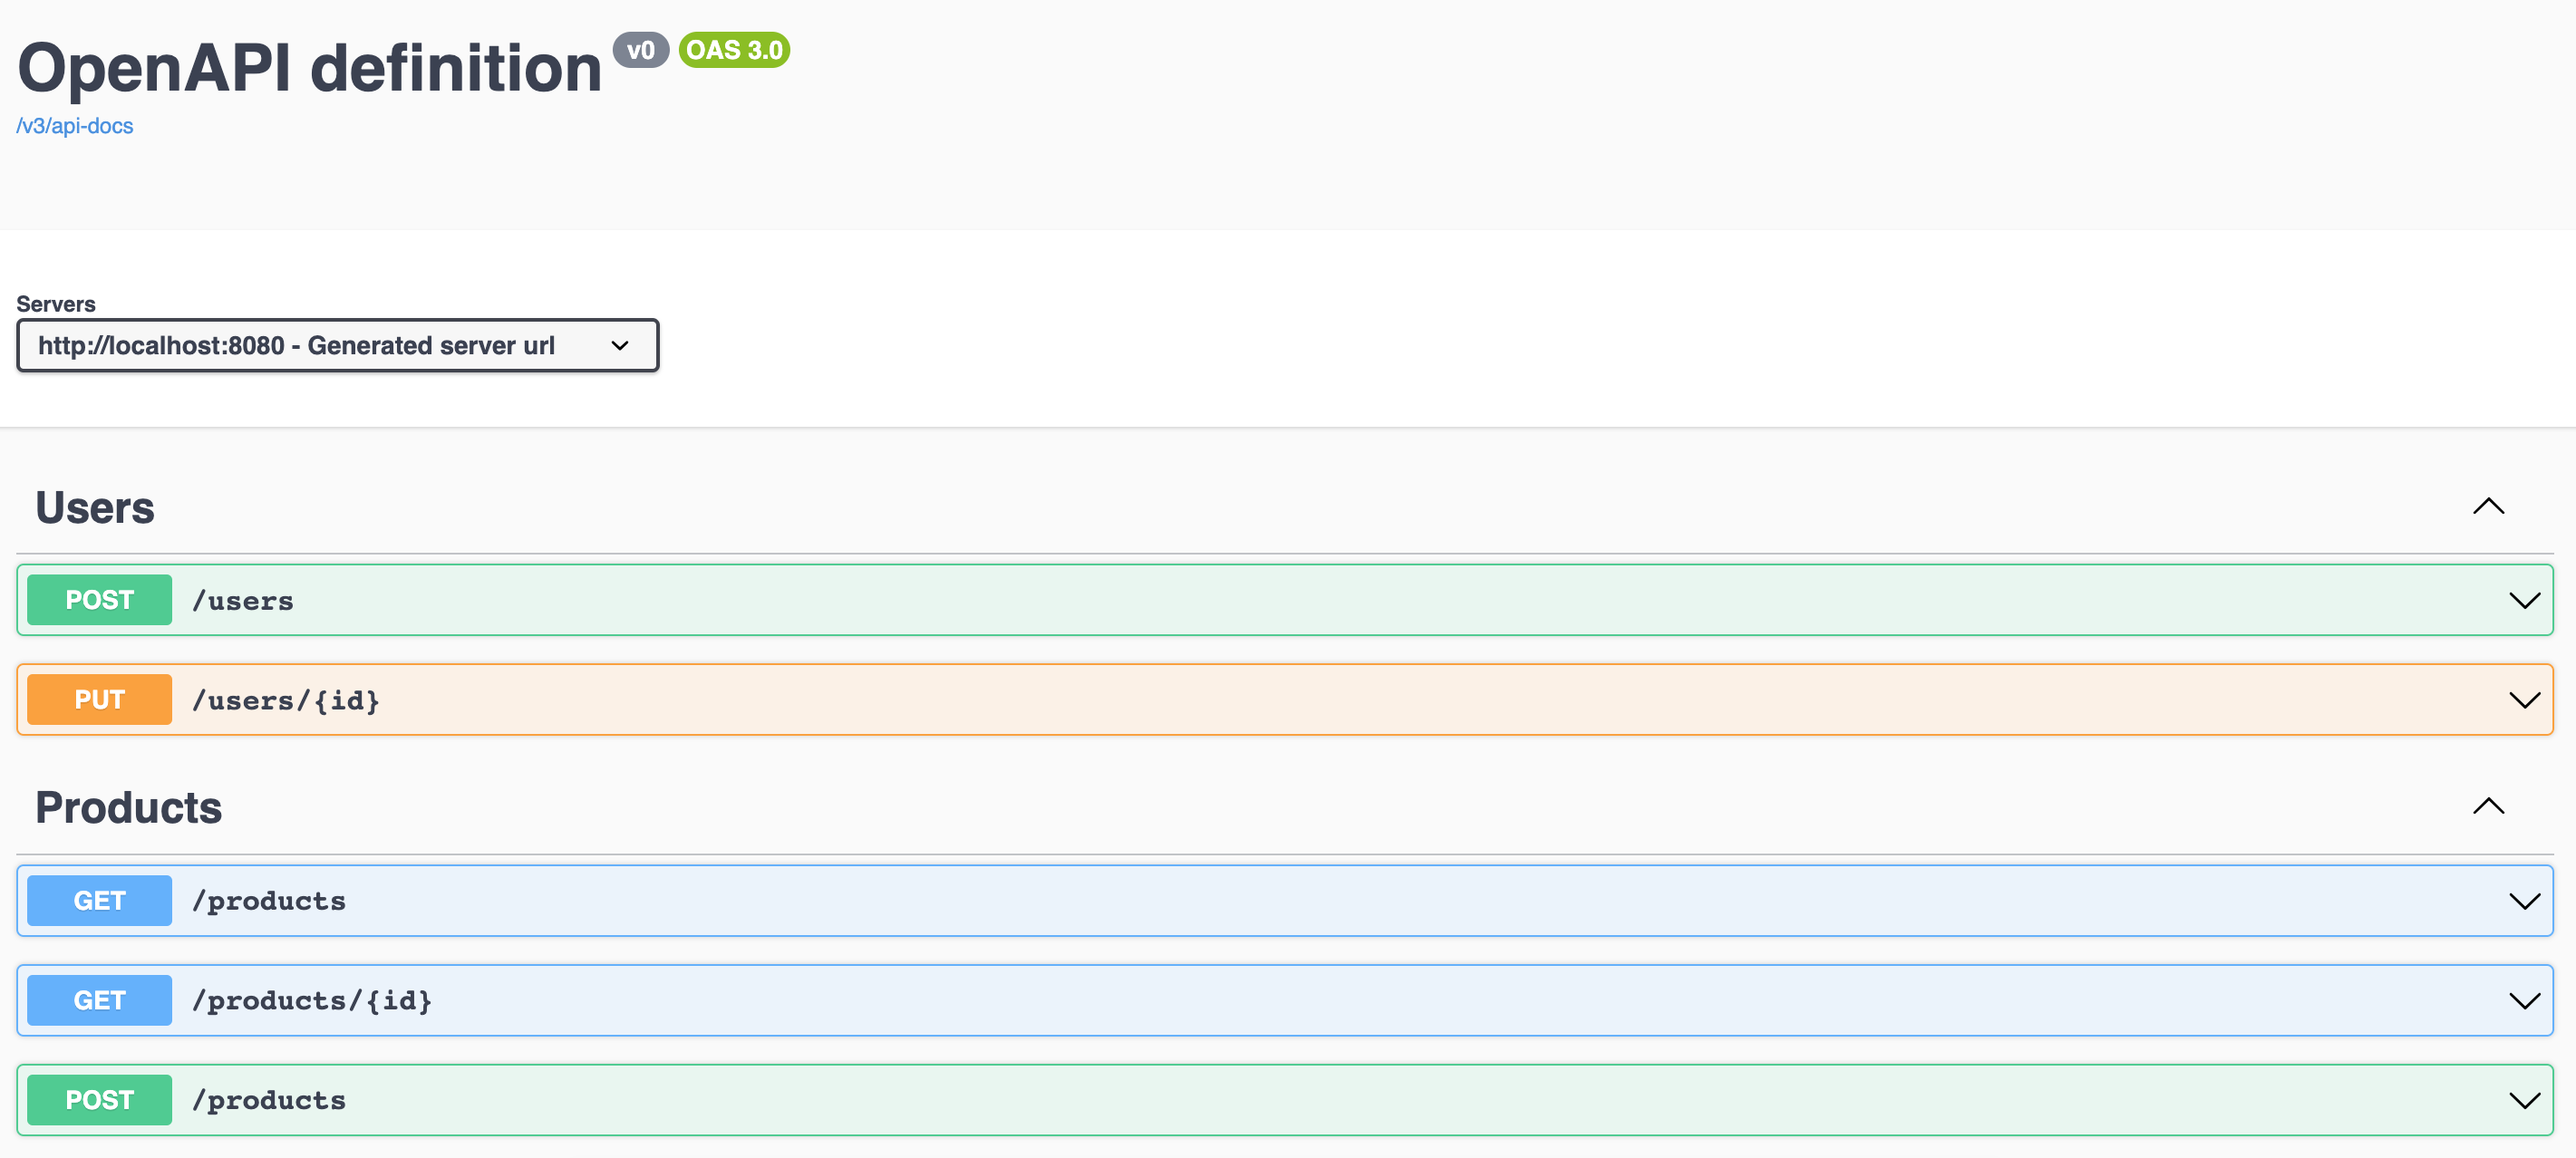
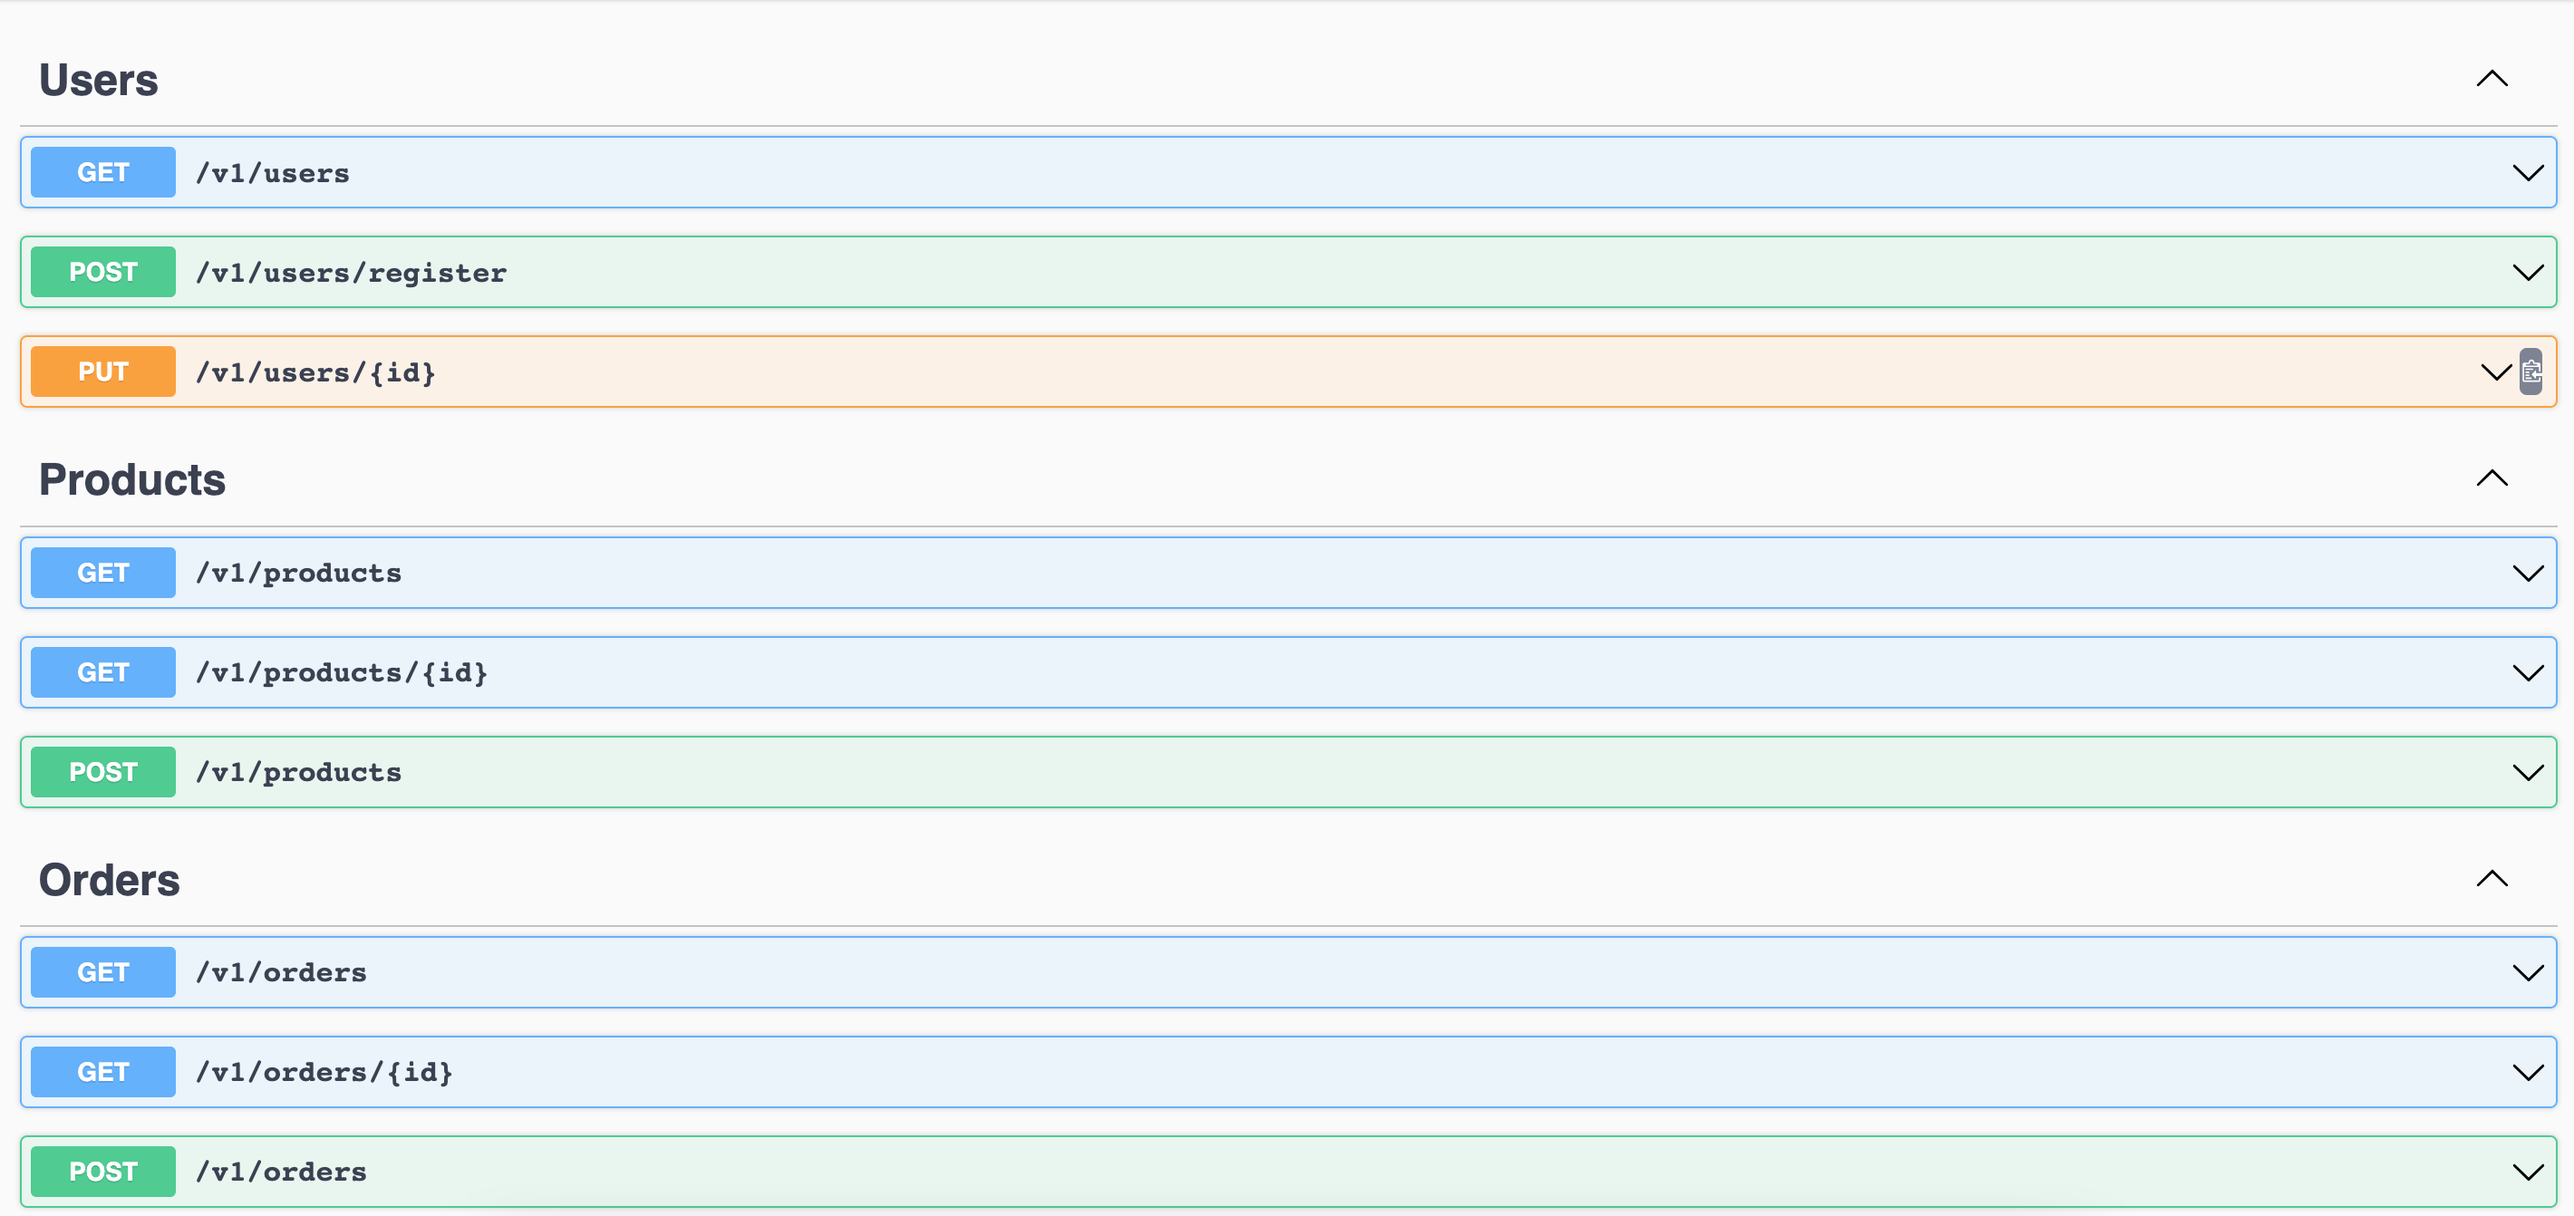
orders: get orders by user api

diff --git a/src/main/java/my/playground/order/OrderService.java b/src/main/java/my/playground/order/OrderService.java
@@ -11,6 +11,9 @@ import my.playground.persistence.entity.OrderEntity;
 import my.playground.persistence.entity.OrdersProductsEntity;
 import my.playground.product.Product;
 import my.playground.product.ProductService;
+import org.springframework.data.domain.PageRequest;
+import org.springframework.data.domain.Sort;
+import org.springframework.data.domain.Sort.Direction;
 import org.springframework.http.HttpStatus;
 import org.springframework.stereotype.Service;
 import org.springframework.transaction.annotation.Transactional;
@@ -71,12 +74,30 @@ public class OrderService {
   }
 
   public Optional<Order> getOrderById(Long orderId) {
+    return orderRepository.findById(orderId).map(
+        oe -> new Order(oe.getId(), getProductsByOrderId(orderId), oe.getTotalAmount(),
+            oe.getShippingAddressId(),
+            oe.getDatePlaced()));
+  }
+
+  public List<Order> getOrdersByUser(Long userId, int pageNumber, int pageSize) {
+    return orderRepository.findAllByBuyerId(userId,
+            PageRequest.of(pageNumber, pageSize, Sort.by(Direction.DESC, "datePlaced"))).stream()
+        .map(orderEntity -> {
+          List<Product> products = getProductsByOrderId(orderEntity.getId());
+          return new Order(
+              orderEntity.getId(),
+              products,
+              orderEntity.getTotalAmount(),
+              orderEntity.getShippingAddressId(),
+              orderEntity.getDatePlaced()
+          );
+        }).toList();
+  }
+
+  private List<Product> getProductsByOrderId(Long orderId) {
     List<Long> productIds = ordersProductsRepository.findAllByOrderId(orderId).stream()
         .map(OrdersProductsEntity::getProductId).toList();
-    List<Product> products = productService.getProducts(productIds);
-
-    return orderRepository.findById(orderId).map(
-        oe -> new Order(oe.getId(), products, oe.getTotalAmount(), oe.getShippingAddressId(),
-            oe.getDatePlaced()));
+    return productService.getProducts(productIds);
   }
 }

diff --git a/src/main/java/my/playground/order/OrderController.java b/src/main/java/my/playground/order/OrderController.java
@@ -2,11 +2,18 @@ package my.playground.order;
 
 import io.swagger.v3.oas.annotations.tags.Tag;
 import jakarta.validation.Valid;
+import java.util.List;
 import lombok.RequiredArgsConstructor;
 import my.playground.infrastructure.exception.AppException;
 import org.springframework.http.HttpStatus;
 import org.springframework.http.ResponseEntity;
-import org.springframework.web.bind.annotation.*;
+import org.springframework.web.bind.annotation.GetMapping;
+import org.springframework.web.bind.annotation.PathVariable;
+import org.springframework.web.bind.annotation.PostMapping;
+import org.springframework.web.bind.annotation.RequestBody;
+import org.springframework.web.bind.annotation.RequestMapping;
+import org.springframework.web.bind.annotation.RequestParam;
+import org.springframework.web.bind.annotation.RestController;
 
 @Tag(name = "Orders")
 @RestController
@@ -24,8 +31,17 @@ public class OrderController {
 
   @GetMapping("/{id}")
   public ResponseEntity<Order> getOrderById(@PathVariable Long id) {
-    Order order = orderService.getOrderById(id).orElseThrow(() -> AppException.from(HttpStatus.NOT_FOUND, "Order not found: " + id));
+    Order order = orderService.getOrderById(id)
+        .orElseThrow(() -> AppException.from(HttpStatus.NOT_FOUND, "Order not found: " + id));
     return new ResponseEntity<>(order, HttpStatus.OK);
+  }
+
+  @GetMapping("")
+  public ResponseEntity<List<Order>> getOrdersByUser(@RequestParam("userId") Long userId,
+      @RequestParam(value = "pageNumber", defaultValue = "0") int pageNumber,
+      @RequestParam(value = "pageSize", defaultValue = "10") int pageSize) {
+    List<Order> orders = orderService.getOrdersByUser(userId, pageNumber, pageSize);
+    return new ResponseEntity<>(orders, HttpStatus.OK);
   }
 
 }

diff --git a/src/test/java/my/playground/order/OrderControllerTest.java b/src/test/java/my/playground/order/OrderControllerTest.java
@@ -1,19 +1,18 @@
 package my.playground.order;
 
+import static io.restassured.RestAssured.given;
+import static org.hamcrest.Matchers.hasSize;
+
 import io.restassured.http.ContentType;
+import java.math.BigDecimal;
+import java.time.LocalDateTime;
+import java.util.List;
 import my.playground.IntegrationBaseTest;
 import my.playground.persistence.OrderRepository;
 import org.junit.jupiter.api.AfterEach;
 import org.junit.jupiter.api.Test;
 import org.springframework.beans.factory.annotation.Autowired;
 import org.springframework.http.HttpStatus;
-
-import java.math.BigDecimal;
-import java.time.LocalDateTime;
-import java.util.List;
-
-import static io.restassured.RestAssured.given;
-import static org.hamcrest.Matchers.hasSize;
 
 public class OrderControllerTest extends IntegrationBaseTest {
 
@@ -72,6 +71,27 @@ public class OrderControllerTest extends IntegrationBaseTest {
         .get("/v1/orders/" + Long.MAX_VALUE)
         .then()
         .statusCode(HttpStatus.NOT_FOUND.value());
+  }
+
+  @Test
+  public void shouldReturnOrdersOfUser() {
+    List<CreateOrderReq> createOrders = List.of(new CreateOrderReq(
+            1L, List.of(new OrderItem(1L, 1), new OrderItem(2L, 1)),
+            1L, BigDecimal.valueOf(300), LocalDateTime.now()
+        ), new CreateOrderReq(
+            1L, List.of(new OrderItem(1L, 3), new OrderItem(2L, 4)),
+            2L, BigDecimal.valueOf(800), LocalDateTime.now()
+        )
+    );
+    createOrders.forEach(orderService::createOrder);
+
+    given()
+        .header("Authorization", generateJwtToken())
+        .when()
+        .get("/v1/orders?userId=1")
+        .then()
+        .statusCode(HttpStatus.OK.value())
+        .body("", hasSize(2));
   }
 
 }

diff --git a/src/test/java/my/playground/order/OrderMockFactory.java b/src/test/java/my/playground/order/OrderMockFactory.java
@@ -4,17 +4,30 @@ import java.math.BigDecimal;
 import java.time.LocalDateTime;
 import java.util.List;
 import java.util.Random;
-
-import static my.playground.product.ProductMockFactory.newProduct;
+import java.util.stream.IntStream;
+import my.playground.persistence.entity.OrderEntity;
+import my.playground.persistence.entity.OrdersProductsEntity;
 
 public class OrderMockFactory {
 
   private static final Random random = new Random();
 
-  public static Order newOrder(Double totalAmount, String paymentStatus) {
-    return new Order(random.nextLong(),
-        List.of(newProduct("product1", "description1"), newProduct("product2", "description2")),
-        BigDecimal.valueOf(totalAmount), 1L, LocalDateTime.now());
+  public static List<OrderEntity> orderEntitiesForReturn(int size) {
+    return IntStream.range(0, size).mapToObj(i ->
+        OrderEntity.builder()
+            .id(random.nextLong())
+            .buyerId(random.nextLong())
+            .datePlaced(LocalDateTime.now())
+            .totalAmount(BigDecimal.valueOf(100 + i))
+            .shippingAddressId(random.nextLong())
+            .build()
+    ).toList();
+  }
+
+  public static List<OrdersProductsEntity> ordersProductsEntitiesForReturn(int size) {
+    return IntStream.range(0, size).mapToObj(
+        i -> OrdersProductsEntity.builder().id((long) i).orderId(1L).productId(2L).build()
+    ).toList();
   }
 
 }

diff --git a/src/test/java/my/playground/order/OrderServiceTest.java b/src/test/java/my/playground/order/OrderServiceTest.java
@@ -25,6 +25,8 @@ import org.junit.jupiter.api.extension.ExtendWith;
 import org.mockito.InjectMocks;
 import org.mockito.Mock;
 import org.mockito.junit.jupiter.MockitoExtension;
+import org.springframework.data.domain.PageImpl;
+import org.springframework.data.domain.PageRequest;
 
 @ExtendWith(MockitoExtension.class)
 public class OrderServiceTest {
@@ -103,5 +105,20 @@ public class OrderServiceTest {
 
     Optional<Order> maybeOrder = orderService.getOrderById(orderId);
     assertFalse(maybeOrder.isPresent());
+  }
+
+  @Test
+  public void shouldReturnOrdersOfUser() {
+    Long userId = 3L;
+    when(orderRepository.findAllByBuyerId(anyLong(), any(PageRequest.class))).thenReturn(
+        new PageImpl<>(OrderMockFactory.orderEntitiesForReturn(3))
+    );
+    when(ordersProductsRepository.findAllByOrderId(anyLong())).thenReturn(
+        OrderMockFactory.ordersProductsEntitiesForReturn(3)
+    );
+
+    List<Order> ordersByUser = orderService.getOrdersByUser(userId, 0, 10);
+    assertFalse(ordersByUser.isEmpty());
+    assertEquals(3, ordersByUser.size());
   }
 }

diff --git a/src/main/java/my/playground/persistence/OrderRepository.java b/src/main/java/my/playground/persistence/OrderRepository.java
@@ -1,9 +1,16 @@
 package my.playground.persistence;
 
 import my.playground.persistence.entity.OrderEntity;
+import org.springframework.data.domain.Page;
+import org.springframework.data.domain.Pageable;
 import org.springframework.data.repository.CrudRepository;
+import org.springframework.data.repository.PagingAndSortingRepository;
 import org.springframework.stereotype.Repository;
 
 @Repository
-public interface OrderRepository extends CrudRepository<OrderEntity, Long> {
+public interface OrderRepository extends PagingAndSortingRepository<OrderEntity, Long>,
+    CrudRepository<OrderEntity, Long> {
+
+  Page<OrderEntity> findAllByBuyerId(Long buyerId, Pageable pageable);
+
 }

diff --git a/src/main/java/my/playground/persistence/OrdersProductsRepository.java b/src/main/java/my/playground/persistence/OrdersProductsRepository.java
@@ -1,10 +1,9 @@
 package my.playground.persistence;
 
+import java.util.List;
 import my.playground.persistence.entity.OrdersProductsEntity;
 import org.springframework.data.repository.CrudRepository;
 import org.springframework.stereotype.Repository;
-
-import java.util.List;
 
 @Repository
 public interface OrdersProductsRepository extends CrudRepository<OrdersProductsEntity, Long> {

diff --git a/README.md b/README.md
@@ -40,9 +40,7 @@ Run one specific test:
 
 ### TODO
 
-- [ ] Refactor exception handling
 - [ ] introduce VAVR and refactor in a functional programming way
 - [ ] encrypt the database secret
 - [ ] support GraphQL
-- [ ] Transactions, notifications, idempotency, stock management
 - [ ] API: aggregate
